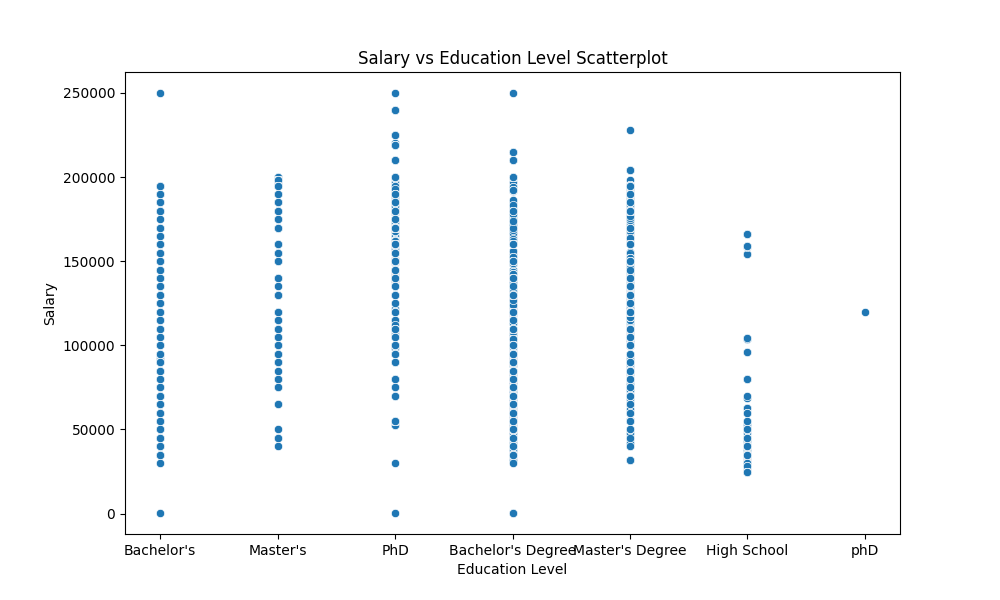
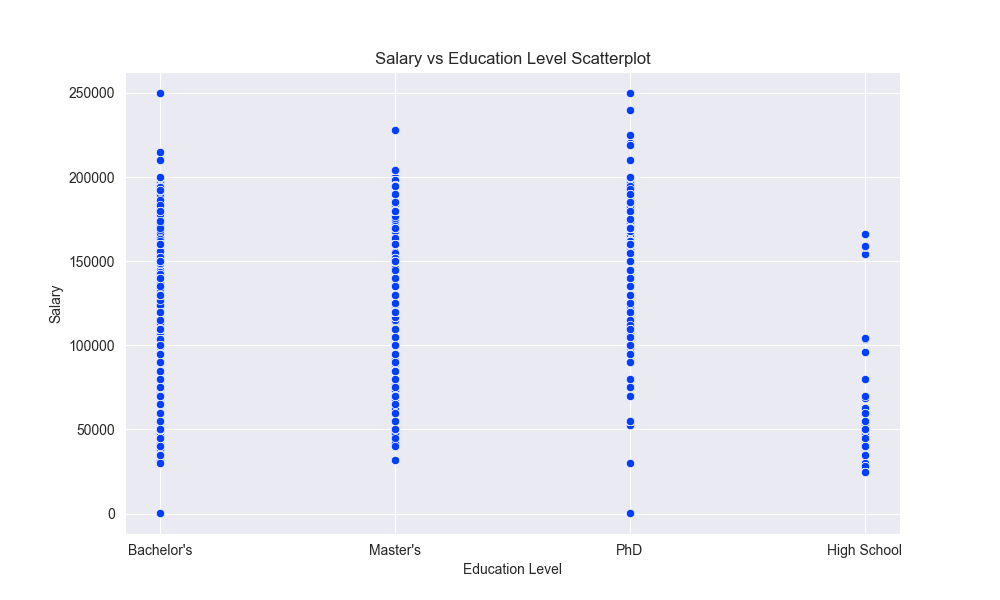
add salary boxplot

diff --git a/data_analysis.py b/data_analysis.py
@@ -3,8 +3,10 @@ import matplotlib.pyplot as plt
 import seaborn as sns
 
 path = "C:/Users/User/Silverleaf/Code'23/BCA-project/Salary_Data.csv"
-
 df = pd.read_csv(path)
+
+sns.set_style("darkgrid")
+sns.set_palette("bright")
 
 # scatterplot: age vs salary
 sns.scatterplot(data = df, x = df["Age"], y = df["Salary"])
@@ -13,6 +15,7 @@ plt.ylabel("Salary")
 plt.title("Salary vs Age Scatterplot")
 plt.savefig("Salary_vs_Age_Scatterplot.png")
 
+# scatterplot: education level vs salary
 plt.figure(figsize=(10, 6))
 sns.scatterplot(data = df, x = df["Education Level"], y = df["Salary"])
 plt.xlabel("Education Level")
@@ -20,4 +23,10 @@ plt.ylabel("Salary")
 plt.title("Salary vs Education Level Scatterplot")
 plt.savefig("Education_Level_vs_Salary_Scatterplot.png")
 
-
+# boxplot of salaries
+plt.figure(figsize=(10, 6))
+sns.boxplot(data = df, x = df["Salary"])
+plt.title("Salary Boxplot")
+plt.xlabel("Salary")
+plt.ylabel("Values")
+plt.savefig("Salary_Boxplot.png")
